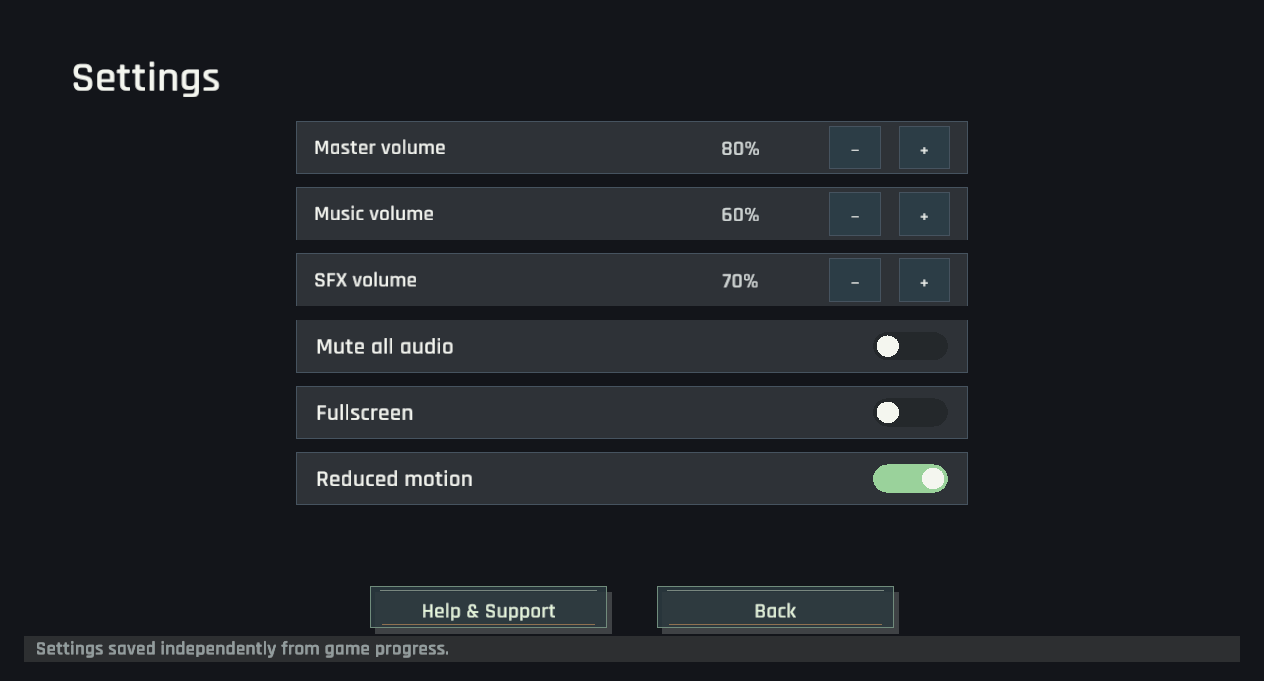
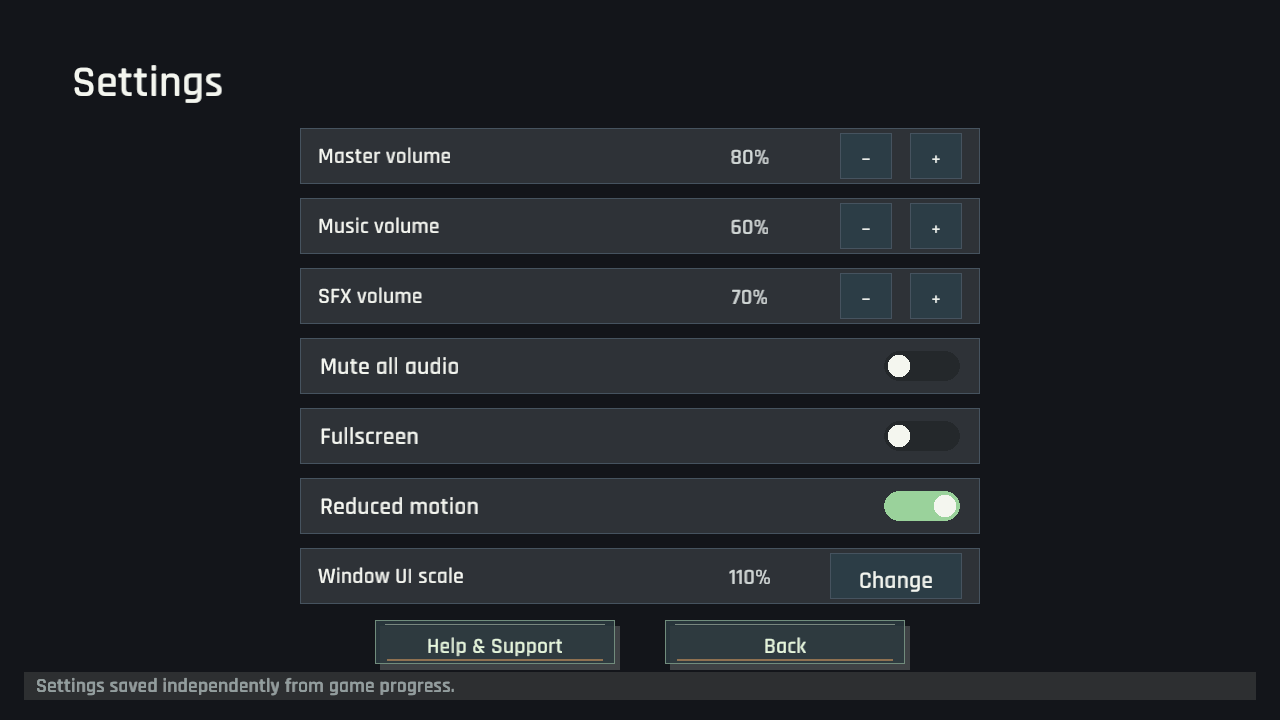
The camp may fill a larger window without losing a single doorway (whole-canvas UI scale)
Scaling individual widgets in Hatchspire's fixed virtual layout would clip edge controls or create overlaps. Add a persisted Window UI scale that instead chooses 90%, 100%, 110%, or 125% physical window dimensions while preserving the complete 1280x720 canvas, layout, and pointer transform.

Apply the preference in the pre-window configuration, restore it when leaving fullscreen, and let capture-specific dimensions and fullscreen suppression remain authoritative. The Settings screen exposes one visible Change control and normalizes unknown historical values to the nearest supported scale.

Add scale cycling, dimension, and migration tests, refresh the canonical Settings capture, and visually verify the full screen at 1152x648, 1408x792, and 1600x900. All 112 tests, formatting, strict Clippy, source-size limits, and publish.ps1 Windows/WebGL validation pass.

Changed region(s): [[0.216, 0.7401, 0.7714, 0.8634], [0.4011, 0.8943, 0.432, 0.9251], [0.3394, 0.8943, 0.3703, 0.9251]]

diff --git a/src/screens/menu.rs b/src/screens/menu.rs
@@ -24,6 +24,7 @@ pub enum SettingsAction {
     ToggleMute,
     ToggleFullscreen,
     ToggleReducedMotion,
+    CycleUiScale,
     OpenHelp,
     Back,
 }
@@ -105,6 +106,9 @@ pub fn handle_settings_input() -> Option<SettingsAction> {
     }
     if ui::button_clicked(reduced_motion_toggle_rect(), true) {
         return Some(SettingsAction::ToggleReducedMotion);
+    }
+    if ui::button_clicked(ui_scale_button_rect(), true) {
+        return Some(SettingsAction::CycleUiScale);
     }
     if ui::button_clicked(settings_back_rect(), true) {
         return Some(SettingsAction::Back);
@@ -221,9 +225,27 @@ pub fn draw_settings(settings: &AppSettings, status_message: &str) {
         "Reduced motion",
         settings.reduced_motion,
     );
+    draw_ui_scale_row(settings.ui_scale_percent);
     ui::draw_title_button(help_button_rect(), "Help & Support", true);
     ui::draw_title_button(settings_back_rect(), "Back", true);
     ui::draw_status(status_message);
+}
+
+fn draw_ui_scale_row(value: u16) {
+    let rect = Rect::new(300.0, 548.0, 680.0, 56.0);
+    ui::draw_panel(rect);
+    draw_ui_text_ex(
+        "Window UI scale",
+        rect.x + 18.0,
+        rect.y + 35.0,
+        TextParams {
+            font_size: 22,
+            color: ui::TEXT_BRIGHT,
+            ..Default::default()
+        },
+    );
+    ui::draw_centered_text(&format!("{value}%"), 750.0, rect.y + 36.0, 22, ui::TEXT);
+    ui::draw_button(ui_scale_button_rect(), "Change", true);
 }
 
 fn draw_volume_row(label: &str, value: u8, y: f32, row: usize) {
@@ -346,6 +368,10 @@ fn mute_toggle_rect() -> Rect {
 
 fn reduced_motion_toggle_rect() -> Rect {
     Rect::new(300.0, 478.0, 680.0, 56.0)
+}
+
+fn ui_scale_button_rect() -> Rect {
+    Rect::new(830.0, 553.0, 132.0, 46.0)
 }
 
 fn volume_buttons() -> [(SettingsAction, Rect); 6] {

diff --git a/src/settings.rs b/src/settings.rs
@@ -2,6 +2,7 @@ use serde::{Deserialize, Serialize};
 
 const GAME_NAME: &str = "hatchspire";
 const SETTINGS_KEY: &str = "settings";
+const UI_SCALES: [u16; 4] = [90, 100, 110, 125];
 
 #[cfg(test)]
 mod tests;
@@ -15,6 +16,7 @@ pub struct AppSettings {
     pub muted: bool,
     pub fullscreen: bool,
     pub reduced_motion: bool,
+    pub ui_scale_percent: u16,
 }
 
 impl Default for AppSettings {
@@ -26,6 +28,7 @@ impl Default for AppSettings {
             muted: false,
             fullscreen: false,
             reduced_motion: false,
+            ui_scale_percent: 100,
         }
     }
 }
@@ -65,10 +68,28 @@ impl AppSettings {
         effective_volume(self.master_volume, self.sfx_volume, self.muted)
     }
 
+    pub fn cycle_ui_scale(&mut self) {
+        let index = UI_SCALES
+            .iter()
+            .position(|scale| *scale == self.ui_scale_percent)
+            .unwrap_or(1);
+        self.ui_scale_percent = UI_SCALES[(index + 1) % UI_SCALES.len()];
+    }
+
+    pub fn window_dimensions(&self) -> (i32, i32) {
+        let scale = i32::from(self.ui_scale_percent);
+        (1280 * scale / 100, 720 * scale / 100)
+    }
+
     fn normalize(&mut self) {
         self.master_volume = self.master_volume.min(100);
         self.music_volume = self.music_volume.min(100);
         self.sfx_volume = self.sfx_volume.min(100);
+        self.ui_scale_percent = UI_SCALES
+            .iter()
+            .copied()
+            .min_by_key(|scale| scale.abs_diff(self.ui_scale_percent))
+            .unwrap_or(100);
     }
 }
 

diff --git a/src/main.rs b/src/main.rs
@@ -4,20 +4,25 @@ use macroquad::prelude::*;
 use macroquad_toolkit::capture;
 
 use hatchspire::game::Game;
+use hatchspire::settings::AppSettings;
 
 fn window_conf() -> Conf {
     // Hand-built Conf means no automatic arming: without this the capture run
     // puts a full game window on the desktop for its whole duration.
     capture::headless::arm("HATCHSPIRE");
+    let capture_mode = capture::capture_requested("HATCHSPIRE");
+    let settings = AppSettings::load().unwrap_or_default();
+    let (preferred_width, preferred_height) = settings.window_dimensions();
 
     // Built by hand (not capture::capture_window_conf) to keep sample_count: 0
     // and high_dpi: false, which the game already relies on; still honors
     // HATCHSPIRE_WINDOW_WIDTH/HEIGHT overrides for the capture harness.
     Conf {
         window_title: "Hatchspire".to_owned(),
-        window_width: capture::env_i32("HATCHSPIRE_WINDOW_WIDTH", 1280),
-        window_height: capture::env_i32("HATCHSPIRE_WINDOW_HEIGHT", 720),
+        window_width: capture::env_i32("HATCHSPIRE_WINDOW_WIDTH", preferred_width),
+        window_height: capture::env_i32("HATCHSPIRE_WINDOW_HEIGHT", preferred_height),
         window_resizable: true,
+        fullscreen: !capture_mode && settings.fullscreen,
         high_dpi: false,
         sample_count: 0,
         ..Default::default()

diff --git a/src/game/actions.rs b/src/game/actions.rs
@@ -114,9 +114,20 @@ impl Game {
             SettingsAction::ToggleFullscreen => {
                 self.settings.fullscreen = !self.settings.fullscreen;
                 set_fullscreen(self.settings.fullscreen);
+                if !self.settings.fullscreen {
+                    let (width, height) = self.settings.window_dimensions();
+                    request_new_screen_size(width as f32, height as f32);
+                }
             }
             SettingsAction::ToggleReducedMotion => {
                 self.settings.reduced_motion = !self.settings.reduced_motion;
+            }
+            SettingsAction::CycleUiScale => {
+                self.settings.cycle_ui_scale();
+                if !self.settings.fullscreen {
+                    let (width, height) = self.settings.window_dimensions();
+                    request_new_screen_size(width as f32, height as f32);
+                }
             }
             SettingsAction::OpenHelp => {
                 self.screen = AppScreen::Help;

diff --git a/src/settings/tests.rs b/src/settings/tests.rs
@@ -24,4 +24,21 @@ fn missing_new_fields_use_safe_defaults_and_out_of_range_values_normalize() {
     assert_eq!(settings.music_volume, 70);
     assert!(!settings.fullscreen);
     assert!(!settings.reduced_motion);
+    assert_eq!(settings.ui_scale_percent, 100);
+}
+
+#[test]
+fn ui_scale_cycles_supported_whole_canvas_sizes_and_normalizes_old_values() {
+    let mut settings = AppSettings::default();
+    assert_eq!(settings.window_dimensions(), (1280, 720));
+    settings.cycle_ui_scale();
+    assert_eq!(settings.window_dimensions(), (1408, 792));
+    settings.cycle_ui_scale();
+    assert_eq!(settings.window_dimensions(), (1600, 900));
+    settings.cycle_ui_scale();
+    assert_eq!(settings.window_dimensions(), (1152, 648));
+
+    settings.ui_scale_percent = 117;
+    settings.normalize();
+    assert_eq!(settings.ui_scale_percent, 110);
 }

diff --git a/src/game/capture.rs b/src/game/capture.rs
@@ -68,6 +68,7 @@ impl Game {
                     muted: false,
                     fullscreen: false,
                     reduced_motion: true,
+                    ui_scale_percent: 110,
                 };
                 self.screen = AppScreen::Settings;
                 self.status_message = "Settings saved independently from game progress.".to_owned();

diff --git a/src/game.rs b/src/game.rs
@@ -56,7 +56,6 @@ impl Game {
         let title_texture =
             Texture2D::from_file_with_format(include_bytes!("../hatchspire_title.png"), None);
         title_texture.set_filter(FilterMode::Linear);
-        set_fullscreen(settings.fullscreen);
 
         Self {
             data,

diff --git a/AI_AGENT_PC_DEMO_RELEASE_PLAN.md b/AI_AGENT_PC_DEMO_RELEASE_PLAN.md
@@ -4,7 +4,8 @@ Audit date: 26 August 2026
 
 ## Implementation status
 
-- **Current phase:** Milestone 1 awaits scope approval; independent Milestone 5 save hardening has begun.
+- **Current phase:** Milestone 1 awaits scope approval; independent Milestone 4 settings and
+  Milestone 5 save-shell work are in progress.
 - **Scope state:** Awaiting human approval; no public-demo progression lock has been applied.
 - **Working specification:** [`docs/pc_demo_definition.md`](docs/pc_demo_definition.md)
 - **Release gate:** [`docs/pc_demo_release_checklist.md`](docs/pc_demo_release_checklist.md)
@@ -13,6 +14,7 @@ Audit date: 26 August 2026
   warning; unreadable-save quarantine and unsupported-newer-save recovery; change-aware atomic
   autosave with visible success/failure status; separately confirmed save reset; in-game build,
   save-location, and recovery help; independently persisted audio/display/motion preferences.
+  Windowed UI scale now resizes the complete canvas across four tested sizes without cropping.
 
 The working specification deliberately separates approved facts from proposed defaults. Updating
 its decision record is the gate that authorizes scope-sensitive gameplay changes.
@@ -64,8 +66,8 @@ The schedule is driven by feedback cycles rather than code volume. An agent can 
 - Defeating the floor-10 guardian does not produce an ending; the player only reaches a message that the stairs end. A shorter demo also has no authored finish line.
 - The current combat verification capture visibly contains magenta/chroma sprite backgrounds, overlapping statistics, tiny text, and a presentation drop from the polished title/tower screens.
 - Audio assets are absent. Settings now persist master/music/SFX levels, mute, fullscreen, and
-  reduced motion independently from saves. UI scale and application of the volume groups to
-  approved audio remain.
+  reduced motion independently from saves. Windowed UI scale preserves the full fixed canvas at
+  90%, 100%, 110%, and 125%. Application of volume groups to approved audio remains.
 - Save/load remains a single slot. The initial audit found no autosave or recovery shell; New Game
   confirmation, change-aware autosave, corrupt-save quarantine, and newer-save protection are now
   implemented, together with a separately confirmed save reset and native save-location help.

diff --git a/docs/pc_demo_release_checklist.md b/docs/pc_demo_release_checklist.md
@@ -42,6 +42,7 @@ Severity is based on player impact and the approved promise, not implementation 
 - [x] Unsupported-newer saves are identified and left unchanged for a newer game build.
 - [x] Help & Support displays the running version, native save path, and recovery/report guidance.
 - [x] Master/music/SFX values, mute, fullscreen, and reduced motion persist outside game saves.
+- [x] Windowed UI scale persists and preserves the complete canvas at 90%, 100%, 110%, and 125%.
 - [ ] Every supported historical save version either migrates fully or reports a safe recovery path.
 - [ ] No crash, hang, progress loss, chroma leak, overlap, clipping, or missing asset exists on the route.
 - [ ] Master/music/SFX volume, mute, fullscreen/windowed, UI scale, and reduced motion persist.

diff --git a/docs/pc_demo_definition.md b/docs/pc_demo_definition.md
@@ -77,8 +77,8 @@ This is the route the tutorial, deterministic test fixture, and release capture 
 - Tutorial completion, demo completion, and post-finale results are not represented in save data.
 - Change-aware autosave, New Game confirmation, separately confirmed reset, and native save-location
   help are implemented; supported-version migration gates remain.
-- Settings persist audio groups, mute, fullscreen, and reduced motion independently; UI scale and
-  approved audio playback remain.
+- Settings persist audio groups, mute, fullscreen, reduced motion, and whole-canvas windowed UI
+  scale independently; approved audio playback remains.
 - No full-demo deterministic test currently spans the numbered path above.
 
 ## Feature freeze

diff --git a/README.md b/README.md
@@ -37,6 +37,7 @@ Turn a fragile camp into a working monster haven that can support increasingly d
 - Save Options on the title screen deletes the single slot only after a separate confirmation.
 - Help & Support in Settings shows the build version, save path, and recovery guidance.
 - Audio levels, mute, fullscreen, and reduced motion persist independently from game saves.
+- Window UI scale resizes the complete fixed canvas to 90%, 100%, 110%, or 125% without clipping controls.
 - Mouse: build, open, trade, and greet.
 - Touch/mouse: every required tower action has a visible target, including room routing, EXPLORE, SURVEY, CAMP, RETREAT, event choices, and the Field Guide.
 
